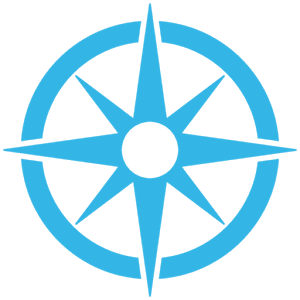
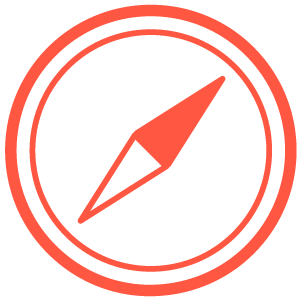
compass

diff --git a/compass.html b/compass.html
@@ -20,7 +20,7 @@
         <p>This is test page to test device orientation plugins.</p>
         <div class="ui segment">
             <div id="magnet" class="ui label"></div>
-            <img id="compass" src="img/simple_compass.jpg" alt="compass" class="ui image " >
+            <img id="compass" src="img/compass.png" alt="compass" class="ui image " >
         </div>
 
     </div>
